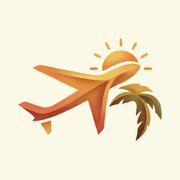
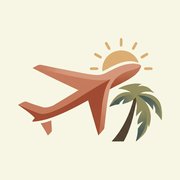
Логотип приглушён, иконки v4

diff --git a/index.html b/index.html
@@ -7,9 +7,9 @@
     <meta name="theme-color" content="#f4f1ea" />
     <title>Личный турагент Ольга Дударева — подбор и бронирование путешествий</title>
     <meta name="description" content="Онлайн-турагентство «Города и реки»: подбор туров для семей, пар и компаний, круизы, события и корпоративные выезды." />
-    <link rel="icon" href="/favicon.ico?v=3" sizes="any" />
-    <link rel="icon" type="image/png" sizes="32x32" href="/favicon-32.png?v=3" />
-    <link rel="apple-touch-icon" href="/apple-touch-icon.png?v=3" />
+    <link rel="icon" href="/favicon.ico?v=4" sizes="any" />
+    <link rel="icon" type="image/png" sizes="32x32" href="/favicon-32.png?v=4" />
+    <link rel="apple-touch-icon" href="/apple-touch-icon.png?v=4" />
     <link rel="manifest" href="/manifest.webmanifest" />
     <meta name="format-detection" content="telephone=no" />
     <!--/head-->
